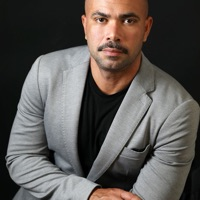
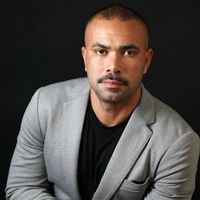
Fix Manassés's testimonial photo crop cutting off his head
Center-crop of the tall source portrait put too much headroom at
top; re-cropped shifted upward so the full head is visible. Same
filenames, so bumped to ?v=2 in index.html to bust the 1-year
immutable asset cache.

diff --git a/index.html b/index.html
@@ -1541,7 +1541,7 @@
         <p class="depo-text">"Saí do evento com a palavra gratidão reverberando dentro de mim. Gratidão a todos que tornaram esse dia inesquecível possível: Lilian, toda equipe LC, palestrantes, participantes, equipes de apoio do hotel e quem mais fez parte do projeto. Saí de lá consciente que a estrada é longa, mas é possível e que eu já estou trilhando o meu caminho. Não tenho que ter pressa. Tudo é uma construção e "o livro é só o começo"!"</p>
       </div>
       <div class="depo-card">
-        <div class="depo-avatar"><div class="depo-avatar-circle"><picture><source srcset="/gravacao-preview/assets/depoimentos/depo-manasses-carloto.webp" type="image/webp"><img onerror="this.onerror=null;var s=this.getAttribute('src');this.closest('picture').querySelectorAll('source').forEach(function(n){n.remove()});this.src=s+(s.indexOf('?')>-1?'&':'?')+'wf=1';" src="/gravacao-preview/assets/depoimentos/depo-manasses-carloto.jpg" alt="" loading="lazy"></picture></div><span class="depo-author">Manassés Carloto da Silva</span></div>
+        <div class="depo-avatar"><div class="depo-avatar-circle"><picture><source srcset="/gravacao-preview/assets/depoimentos/depo-manasses-carloto.webp?v=2" type="image/webp"><img onerror="this.onerror=null;var s=this.getAttribute('src');this.closest('picture').querySelectorAll('source').forEach(function(n){n.remove()});this.src=s+(s.indexOf('?')>-1?'&':'?')+'wf=1';" src="/gravacao-preview/assets/depoimentos/depo-manasses-carloto.jpg?v=2" alt="" loading="lazy"></picture></div><span class="depo-author">Manassés Carloto da Silva</span></div>
         <h3 class="depo-headline">Achei o Escritores Admiráveis extraordinário.</h3>
         <p class="depo-text">"Achei o Escritores Admiráveis extraordinário. Foi uma experiência muito enriquecedora, na qual pude aprender muito com profissionais de diferentes áreas do mercado literário, trocar experiências e ampliar minha visão como escritor. Além de todo o conhecimento adquirido, foi uma excelente oportunidade de networking e de criar novas conexões. Um evento que, sem dúvida, agregou muito à minha trajetória."</p>
       </div>
